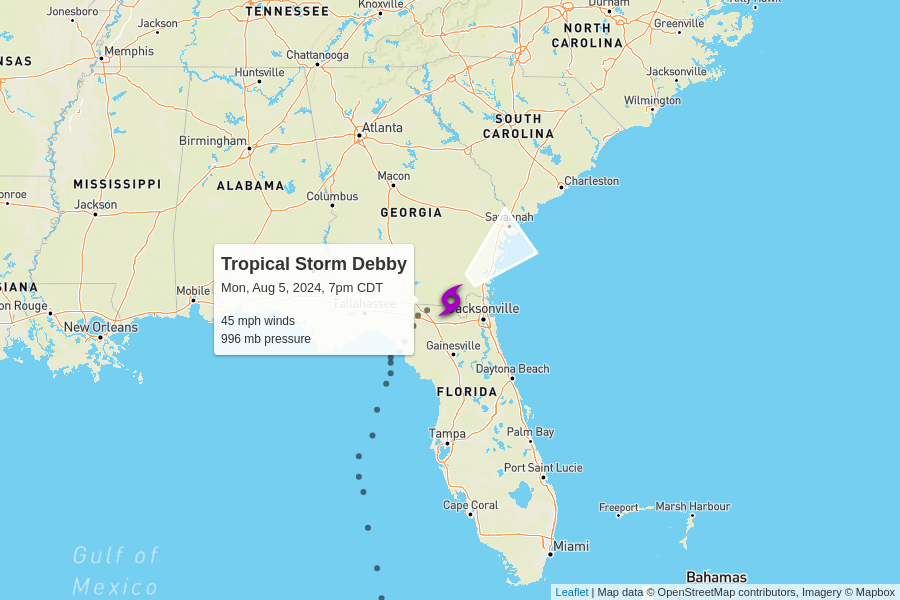
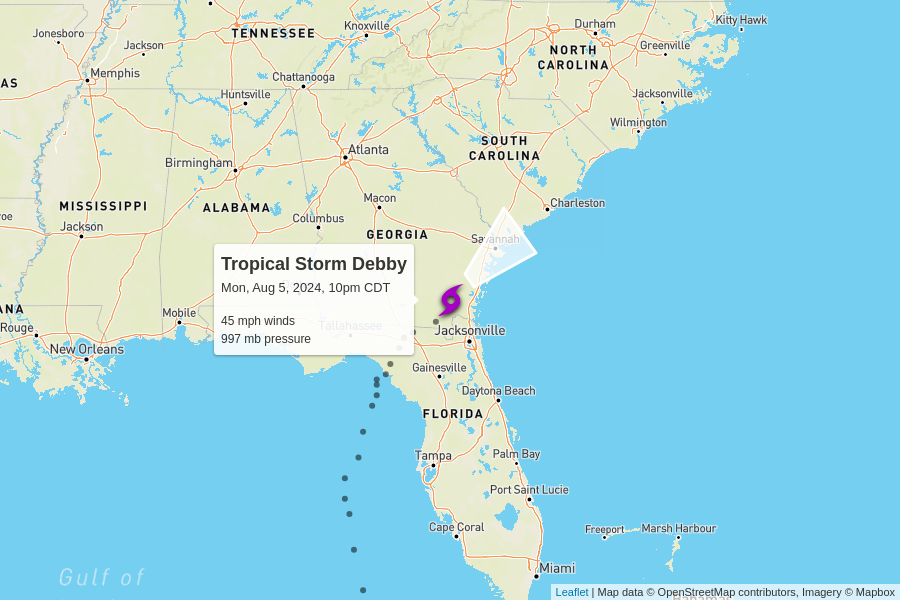
automatic update

diff --git a/docs/index.html b/docs/index.html
@@ -102,7 +102,7 @@
         <td colspan="6" class="storm category-0" >
           <h2>
             Tropical Storm Debby
-            <p class="updated">last updated <span data-time>2024-08-06T00:00:00.000Z</span></p>
+            <p class="updated">last updated <span data-time>2024-08-06T03:00:00.000Z</span></p>
           </h2>
         </td>
       </tr>
@@ -117,10 +117,10 @@
       </tr>
       <tr>
         <td class="spacer"></td>
-        <td>45 mph<br>-5 mph since last update</td>
-        <td>996 mb<br>+2 mb since last update</td>
+        <td>45 mph<br>0 mph since last update</td>
+        <td>997 mb<br>+1 mb since last update</td>
         <td>
-          6 mph to the northeast
+          7 mph to the northeast
           <br/>
           <span style="display: inline-block; font-size: 1.5em; transform: rotate(50deg);">↑</span>
         </td>
